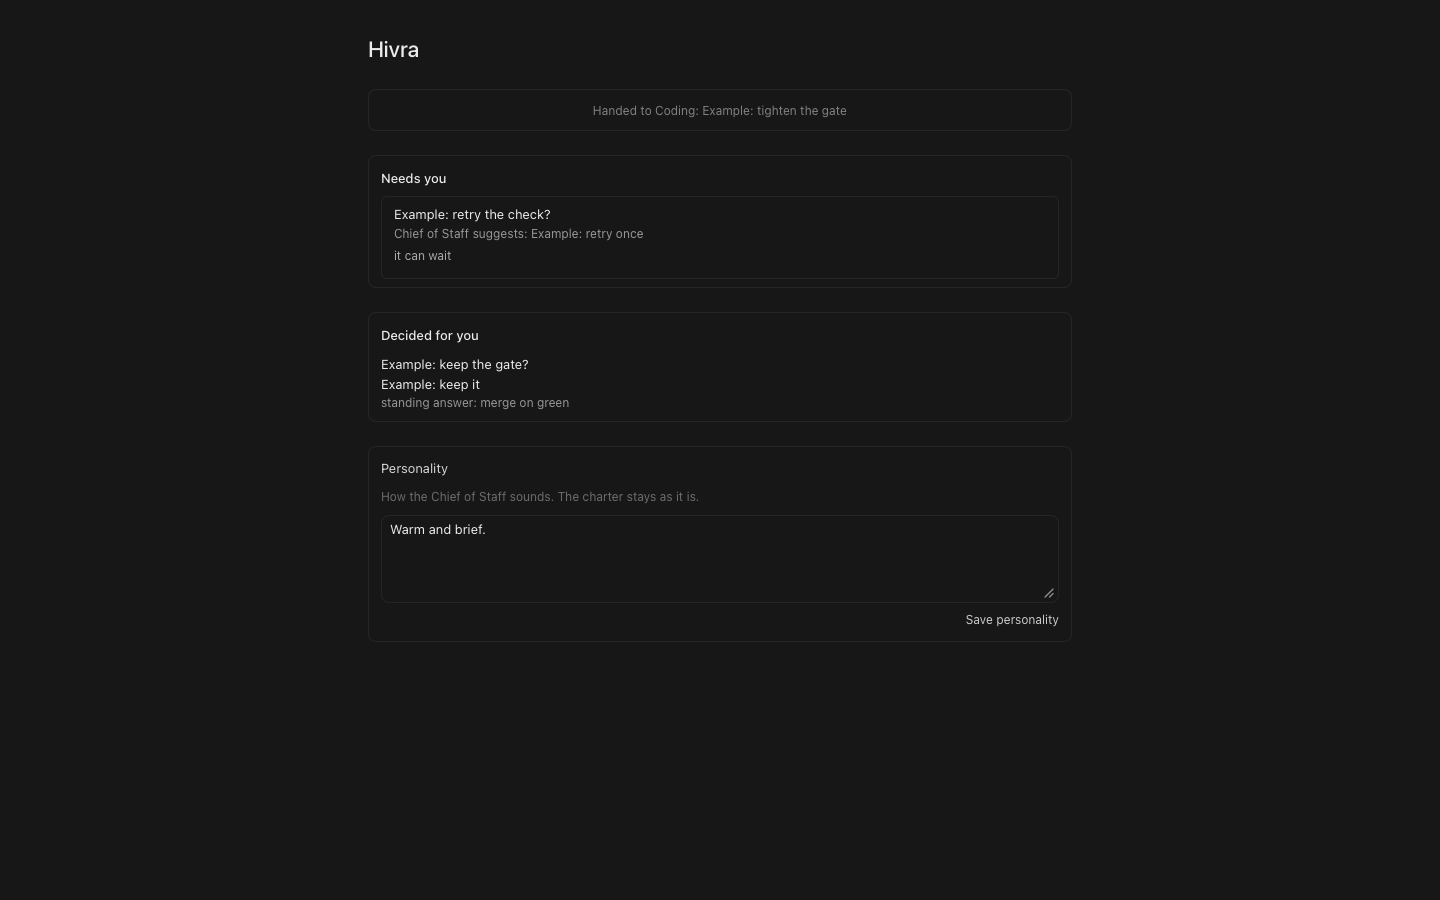
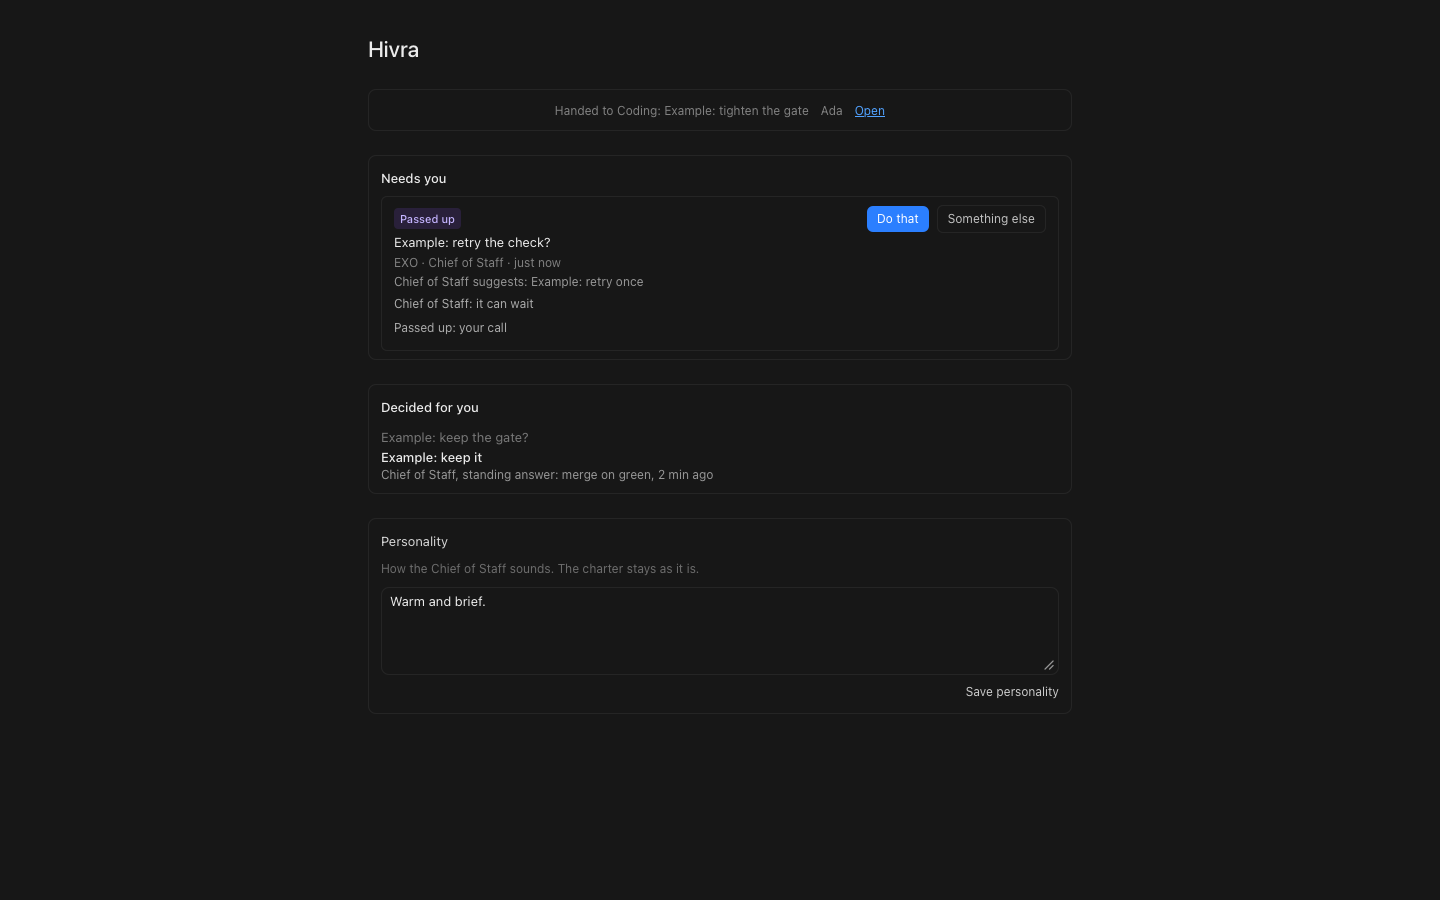
Show a pass-up with its actions on the captain fixture
The Needs you row has a kind chip, a source line, a labelled reason, and Do that / Something else. Decided for you names who answered. The handoff line stays the locked sentence, with the mate and an Open link beside it.

diff --git a/tests/browser/wp215-captain.tsx b/tests/browser/wp215-captain.tsx
@@ -49,6 +49,14 @@ const passedUp: FirstMateItem = {
   title: "Example: retry the check?",
   body: reason,
   statusWord: suggestion,
+  chip: "Passed up",
+  sourceLine: "EXO · Chief of Staff · just now",
+  reasonLead: "Chief of Staff:",
+  note: "Passed up: your call",
+  actions: [
+    { label: "Do that", primary: true },
+    { label: "Something else" },
+  ],
   chatId: null,
   workerIds: [],
   options: [],
@@ -65,14 +73,20 @@ function Page() {
   useLayoutEffect(() => {
     const lines = passRef.current?.querySelectorAll("article p");
     lines?.[0]?.setAttribute("data-testid", "passup");
-    lines?.[1]?.setAttribute("data-testid", "passup-reason");
+    passRef.current?.querySelector("[data-reason-text]")?.setAttribute("data-testid", "passup-reason");
   }, []);
   return (
     <main className="min-h-screen bg-background-base text-content">
       <div className="mx-auto flex max-w-3xl flex-col gap-6 px-8 py-8">
         <h1 className="text-[22px] font-medium text-content">Hivra</h1>
-        <section className="rounded-lg border border-stroke px-3 py-3" data-testid="handoff">
-          <RoomMessage chatId="room" message={handoffMessage} messages={[handoffMessage]} nameOf={() => "App"} />
+        <section className="flex items-center justify-center gap-3 rounded-lg border border-stroke px-3 py-3">
+          <div data-testid="handoff">
+            <RoomMessage chatId="room" message={handoffMessage} messages={[handoffMessage]} nameOf={() => "App"} />
+          </div>
+          <span className="text-xs text-content/50">Ada</span>
+          <a href="#task-1" className="text-xs text-blue-400 underline">
+            Open
+          </a>
         </section>
         <section className="rounded-lg border border-stroke">
           <h2 className="px-3 pt-3 text-[13px] font-medium text-content">Needs you</h2>
@@ -83,12 +97,12 @@ function Page() {
         <section className="rounded-lg border border-stroke">
           <h2 className="px-3 pt-3 text-[13px] font-medium text-content">Decided for you</h2>
           <div className="px-3 py-2.5">
-            <div className="break-words text-[13px] leading-5 text-content">Example: keep the gate?</div>
-            <div className="break-words text-[13px] leading-5 text-content" data-testid="standing-answer">
+            <div className="break-words text-[13px] leading-5 text-content/45">Example: keep the gate?</div>
+            <div className="break-words text-[13px] font-medium leading-5 text-content" data-testid="standing-answer">
               {answer}
             </div>
-            <div className="text-xs text-content/60" data-testid="standing-reason">
-              {why}
+            <div className="text-xs text-content/60">
+              Chief of Staff, <span data-testid="standing-reason">{why}</span>, 2 min ago
             </div>
           </div>
         </section>

diff --git a/src/features/crew/ui/FirstMateInbox.tsx b/src/features/crew/ui/FirstMateInbox.tsx
@@ -40,7 +40,15 @@ export function FirstMateInbox({
           aria-current={item.key != null && item.key === selectedKey ? "true" : undefined}
           className="rounded-md border border-stroke px-3 py-2"
         >
+          <div className="flex items-start justify-between gap-3">
+            <div className="min-w-0">
+          {item.chip ? (
+            <span className="mb-1 inline-flex rounded bg-violet-500/15 px-1.5 py-0.5 text-[11px] font-medium text-violet-300">
+              {item.chip}
+            </span>
+          ) : null}
           <h3 className="text-[13px] text-content">{item.title}</h3>
+          {item.sourceLine ? <div className="text-[12px] leading-5 text-content/50">{item.sourceLine}</div> : null}
           {typeof now === "number" && waitingPhrase(item.since, now) ? (
             <p data-waiting className="text-[12px] text-content/60">
               {waitingPhrase(item.since, now)}
@@ -52,7 +60,8 @@ export function FirstMateInbox({
               data-failure={item.kind === "failure" ? item.id : undefined}
               className="mt-1 whitespace-pre-wrap break-words text-[12px] text-content/70"
             >
-              {item.body}
+              {item.reasonLead ? `${item.reasonLead} ` : null}
+              {item.reasonLead ? <span data-reason-text>{item.body}</span> : item.body}
             </p>
           ) : null}
           {item.options.length ? (
@@ -81,6 +90,25 @@ export function FirstMateInbox({
                 Open the worker
               </button>
             ))}
+          </div>
+            </div>
+            {item.actions?.length ? (
+              <div className="flex shrink-0 items-center gap-2">
+                {item.actions.map((action) => (
+                  <button
+                    key={action.label}
+                    type="button"
+                    className={
+                      action.primary
+                        ? "rounded-md bg-blue-500 px-2.5 py-1 text-[12px] text-white"
+                        : "rounded-md border border-stroke px-2.5 py-1 text-[12px] text-content/80"
+                    }
+                  >
+                    {action.label}
+                  </button>
+                ))}
+              </div>
+            ) : null}
           </div>
         </article>
       ))}

diff --git a/src/features/crew/model/inbox.ts b/src/features/crew/model/inbox.ts
@@ -39,6 +39,14 @@ export type FirstMateItem = {
   recommended: string | null;
   /** WP-92: a line that sits under the answer buttons (a secret card's warning about "Always"). */
   note?: string | null;
+  /** A short kind, such as "Passed up". Absent on a row that has none. */
+  chip?: string;
+  /** Where the row came from, such as the project and who passed it up. */
+  sourceLine?: string;
+  /** Words in front of the body, so the reason can name who said it. */
+  reasonLead?: string;
+  /** Actions on the right. The first primary one is the suggestion. */
+  actions?: readonly { label: string; primary?: boolean }[];
   project: string;
   key: string | null;
   /** The decision version this card was drawn from. Absent on a row that is not a decision. */
